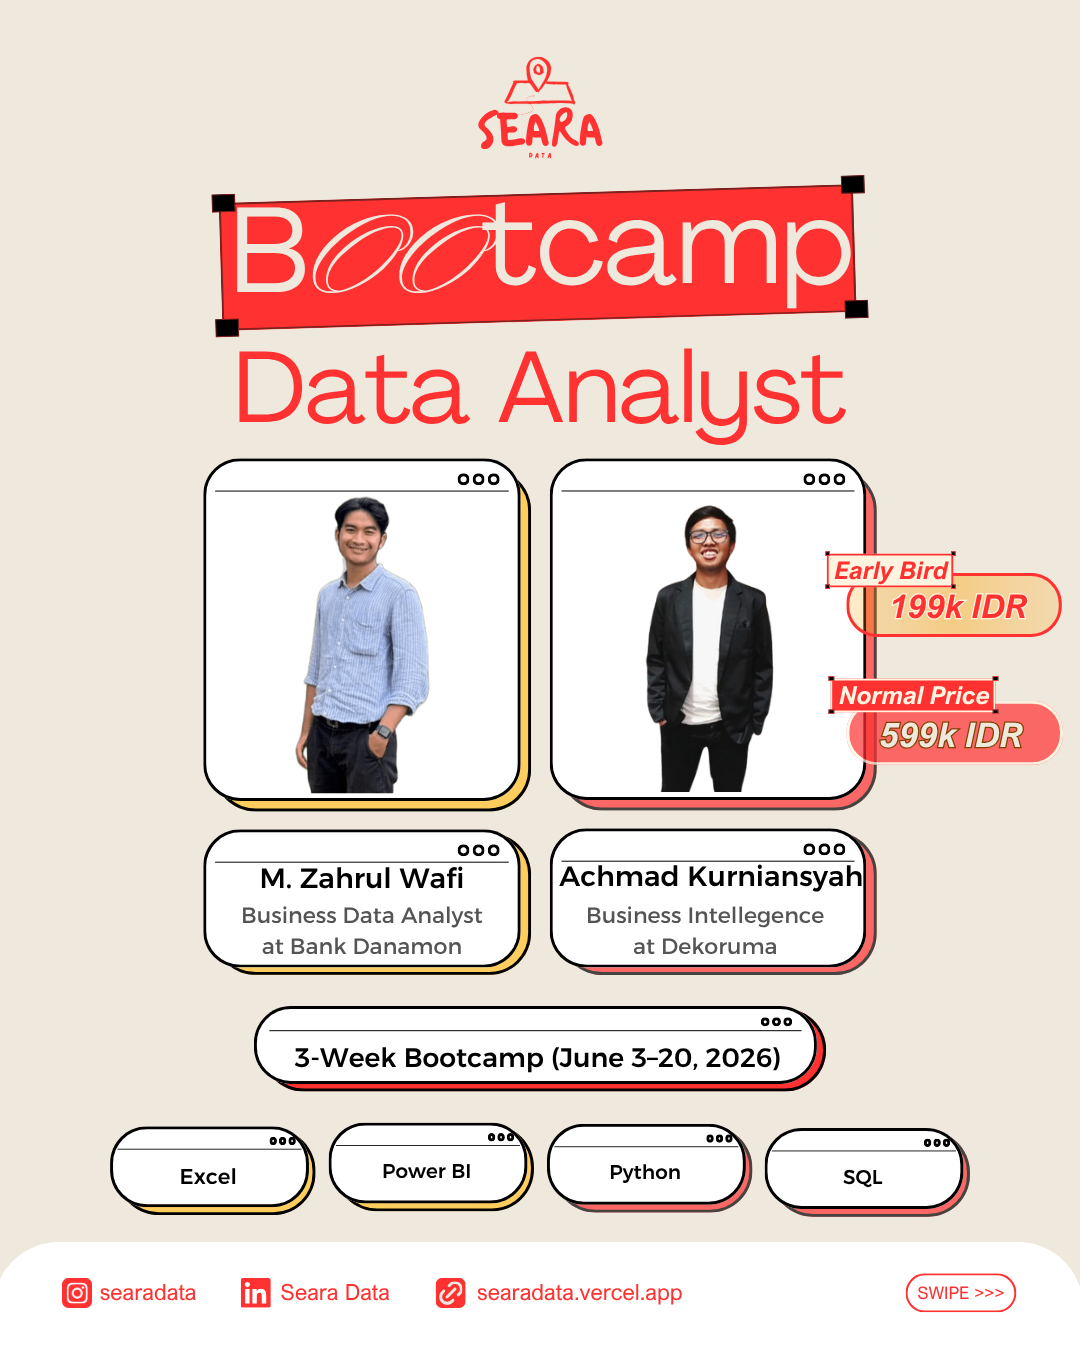
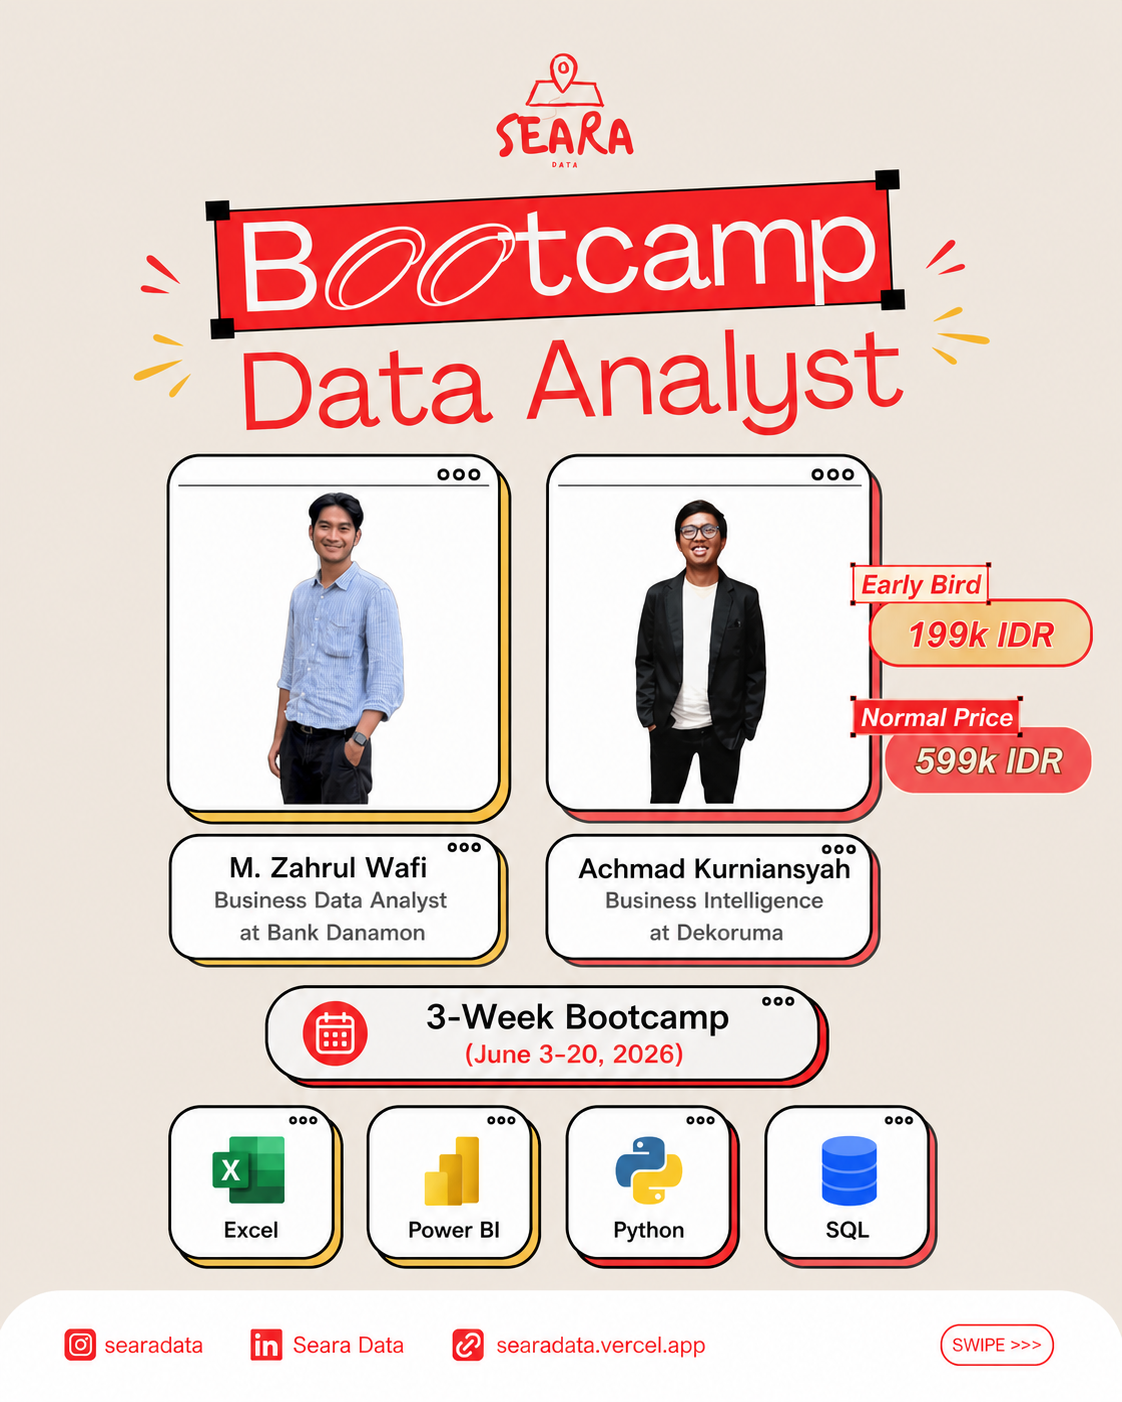
Perbaikan Bootcamp

diff --git a/src/App.tsx b/src/App.tsx
@@ -107,10 +107,11 @@ export default function App() {
               variants={fadeIn}
               className="text-5xl md:text-7xl font-extrabold mb-10 leading-[1.1] text-seara-dark tracking-tight font-display"
             >
-              Seara, Data yang Bikin <br />
-              <span className="text-seara-orange">Bisnismu Searah</span>
+              Seara, Menemani Perjalanan  <br />
+              <span className="text-seara-orange">Datamu Lebih Terarah</span>
             </motion.h2>
             
+
             <motion.p 
               variants={fadeIn}
               className="text-lg text-[#5a5a5a] mb-12 max-w-2xl mx-auto leading-relaxed"
@@ -123,7 +124,7 @@ export default function App() {
               className="flex flex-wrap justify-center gap-4"
             >
               <a 
-                href="https://clicky.id/searadata/dataengineer" 
+                href="https://clicky.id/searadata/bootcamp-data-analyst" 
                 target="_blank"
                 rel="noopener noreferrer"
                 className="bg-seara-orange text-white px-8 py-4 rounded-2xl font-bold text-lg shadow-[0_10px_15px_-3px_rgba(241,111,83,0.2)] hover:brightness-95 hover:-translate-y-1 transition-all flex items-center gap-2"
@@ -207,13 +208,14 @@ export default function App() {
                 {
                   id: "bootcamp-da",
                   type: "active",
-                  badge: "🚀 REGISTRATION SOON",
+                  badge: "🚀 REGISTRATION OPEN",
                   badgeColor: "bg-seara-orange",
                   image: "/bootcamp-data-analyst.png",
                   date: "3 - 20 Juni 2026",
                   title: "Bootcamp: Data Analyst Specialization",
                   desc: "Kuasai Excel, Power BI, Python, dan SQL dalam 3 minggu intensif. Siap kerja sebagai Data Analyst di 2026.",
-                  cta: "Coming Soon in June",
+                  link: "https://clicky.id/searadata/bootcamp-data-analyst",
+                  cta: "Daftar Bootcamp",
                   bgColor: "bg-orange-50"
                 },
                 {
